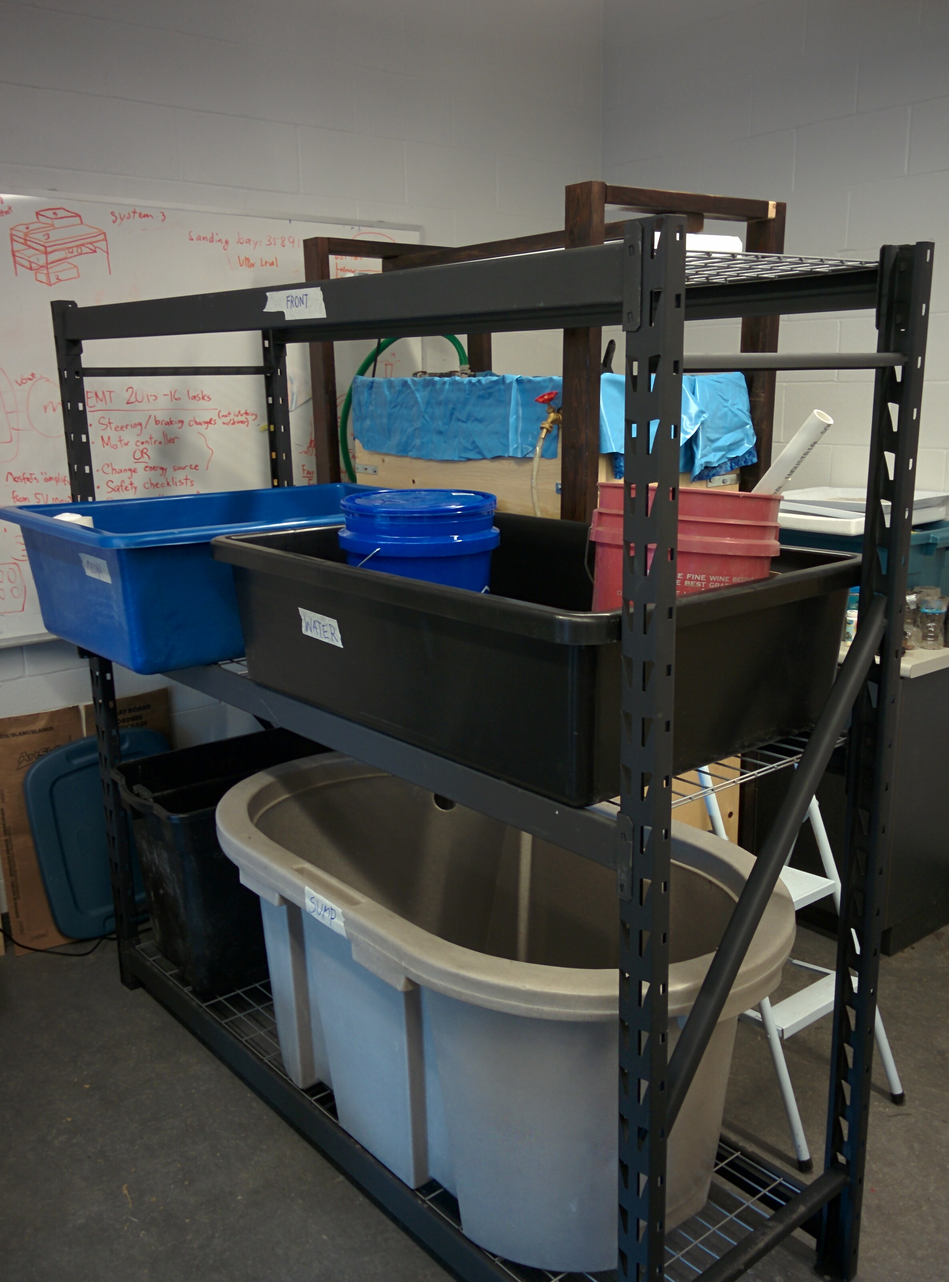
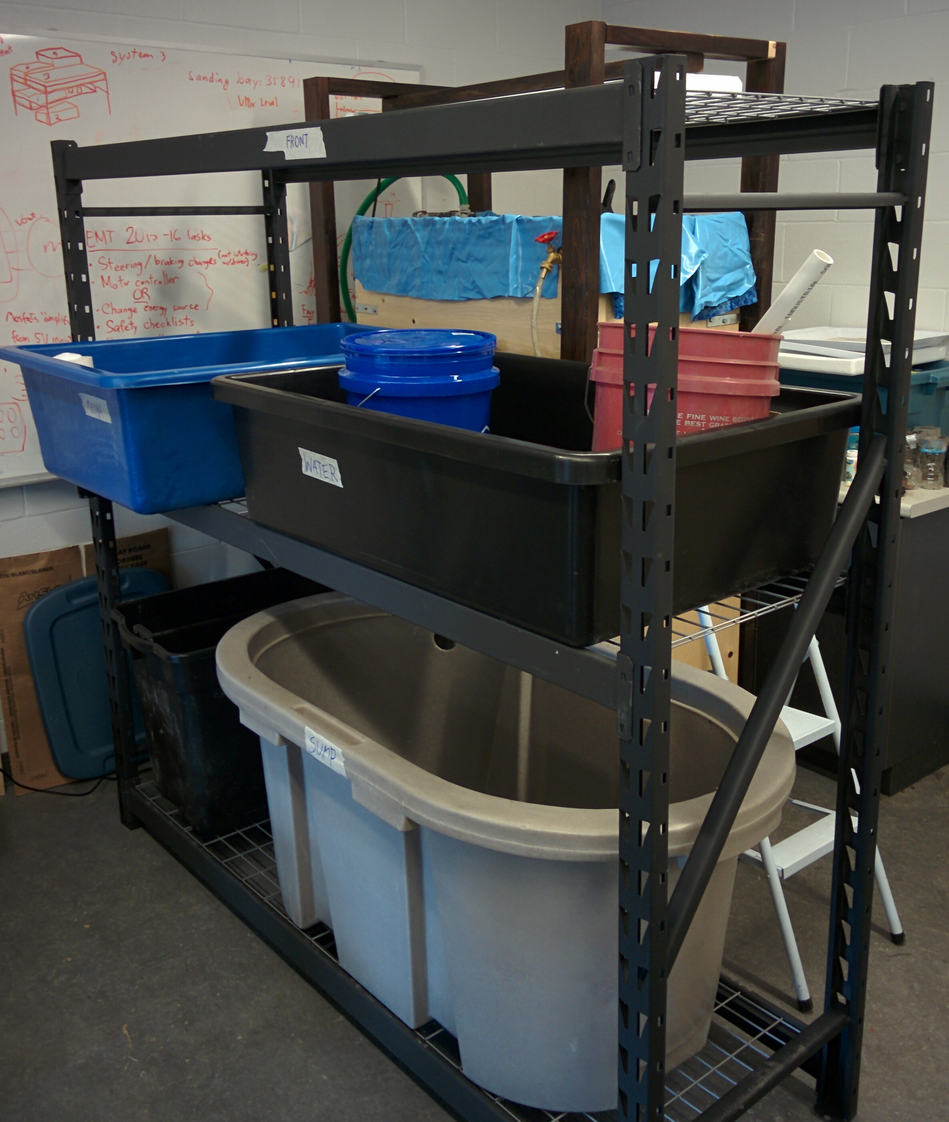
improved image sizes

diff --git a/_posts/2015-09-20-mars-hydroponics-hydrology.md b/_posts/2015-09-20-mars-hydroponics-hydrology.md
@@ -3,7 +3,7 @@ layout: post
 title: Mars Hydroponics and Hydrology
 date: 2015-09-20 00:00:00 -0000
 github: https://github.com/TStesco/mars-hydroponics-datalogger
-image: marsHydroCover2-min.png
+image: marsHydroCover2-min.jpg
 tags: [cybernetics, hardware, software]
 ---
 In July 2015 as part of CIVE 486 at Waterloo, a course in [hydrology][hydrology], Eric Kohen and I built an experimental Mars mission hydroponic system 
@@ -30,7 +30,7 @@ The experimental Mars hydroponic system is a small-scale hydrologic testing appa
 The system was rigged with internal sensors for: air temperature/humidity, water termperature, soil moisture, and three ultrasonic distance sensors for water level. The specifications for these sensors is presented in the table below. These sensors were controlled by an arduino-like microcontroller (analgous to the leonardo) which took readings from all 5 sensors every 2 seconds and printed the output to the serial port. The serial output was saved to a .csv file every half-hour (900 readings) on a data logging computer running Linux Ubuntu 14.04 and a serial port reading/.csv writing script in Processing which can be found on [Github][github].
 
 <div style="text-align: center;">
-{% include captioned-image.html url="marsHydroConstruction-min.png" description="Fig 2: Sensor wiring of Mars hydroponic system" style="height: auto; width: auto; max-height: 700px;" %}
+{% include captioned-image.html url="marsHydroConstruction-min.jpg" description="Fig 2: Sensor wiring of Mars hydroponic system" style="height: auto; width: auto; max-height: 700px;" %}
 </div>
 <span class="caption text-muted"><strong>Table 1: Sensor Specifications</strong></span>
 <table>
@@ -76,7 +76,7 @@ The system was rigged with internal sensors for: air temperature/humidity, water
 
 
 <div style="text-align: center;">
-{% include captioned-image.html url="PlantAreaDay1-min.png" description="Fig 3: Lettuce seedlings after transplanting into system" style="height: auto; width: auto; max-height: 700px;" %}
+{% include captioned-image.html url="PlantAreaDay1-min.jpg" description="Fig 3: Lettuce seedlings after transplanting into system" style="height: auto; width: auto; max-height: 700px;" %}
 </div>
 <p>
     During experiment we found that of the initial volume of water that was rained onto the lettuce seedlings the bulk flowed through the soil. The rest ranoff quickly during the short rain event and returned to the main reservoir. The infiltration reservoir then filled slowly and eventually refilled the main reservoir. The total of all three reservoirs represents all water in the system minus the amount within the soil.
